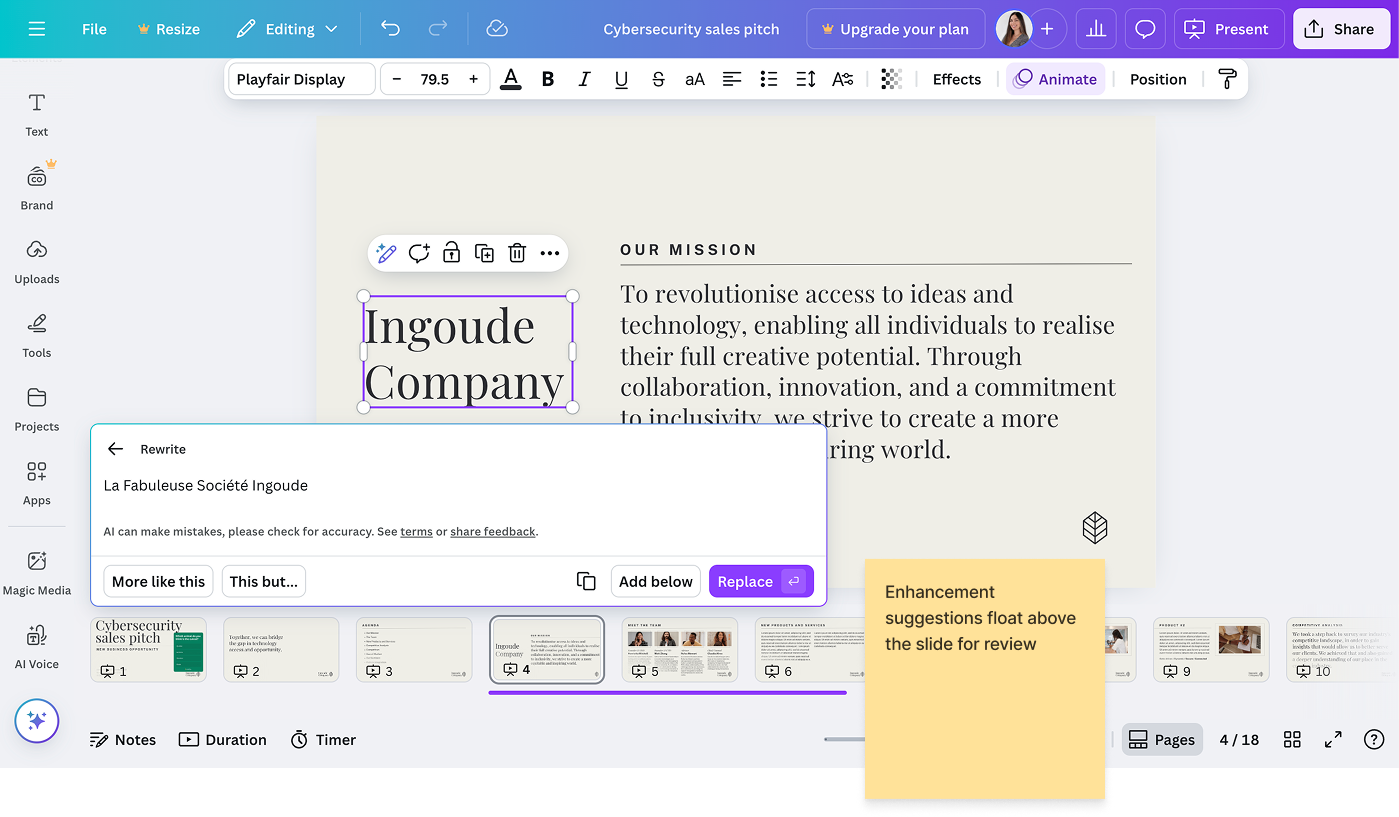
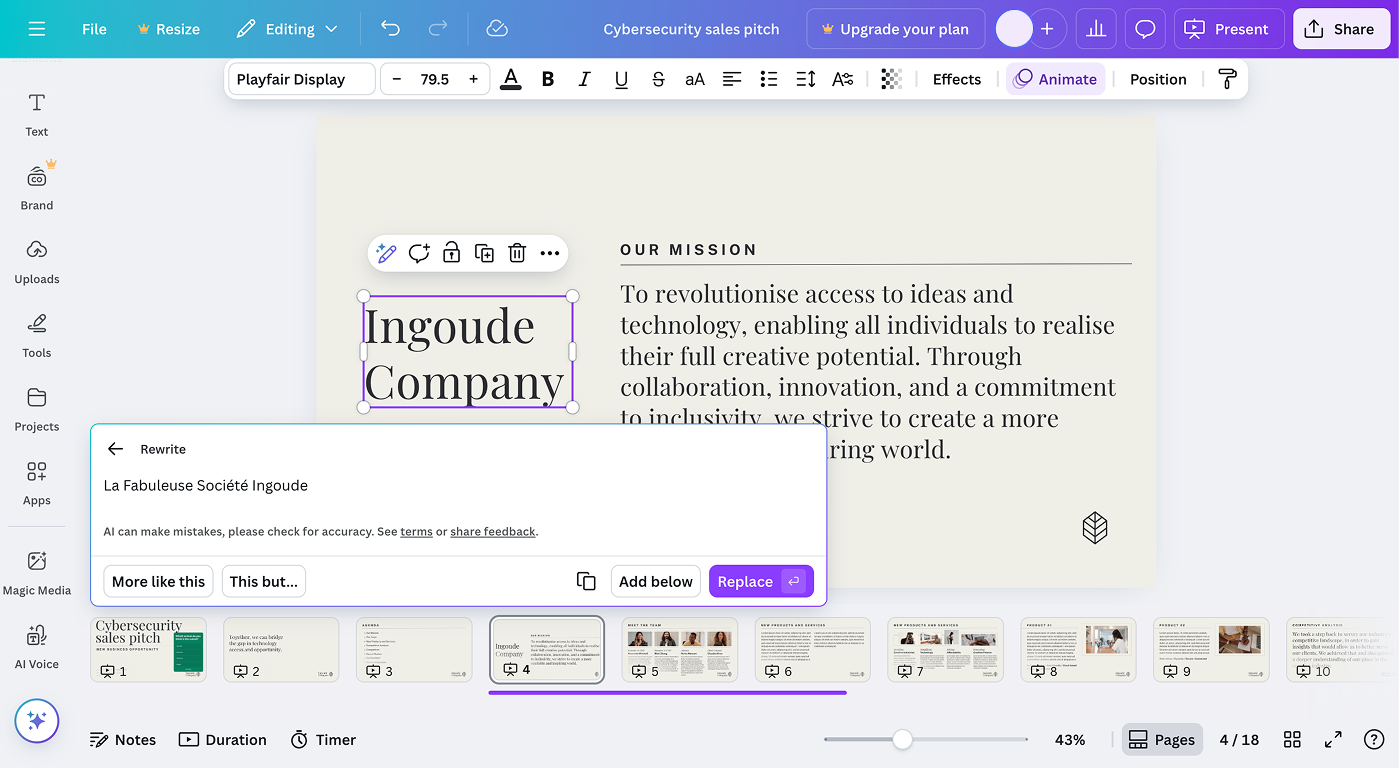
updates imgs

diff --git a/case-study-ai-activity-suggestions.html b/case-study-ai-activity-suggestions.html
@@ -484,10 +484,10 @@
     </div>
 
     <!-- NEXT -->
-    <a href="index.html#work" class="next-case">
+    <a href="case-study-ai-teacher-studio.html" class="next-case">
       <div>
-        <p class="next-label">Next</p>
-        <p class="next-title">Lesson Builder redesign →</p>
+        <p class="next-label">Next case study</p>
+        <p class="next-title">AI Teacher Studio →</p>
       </div>
     </a>
 